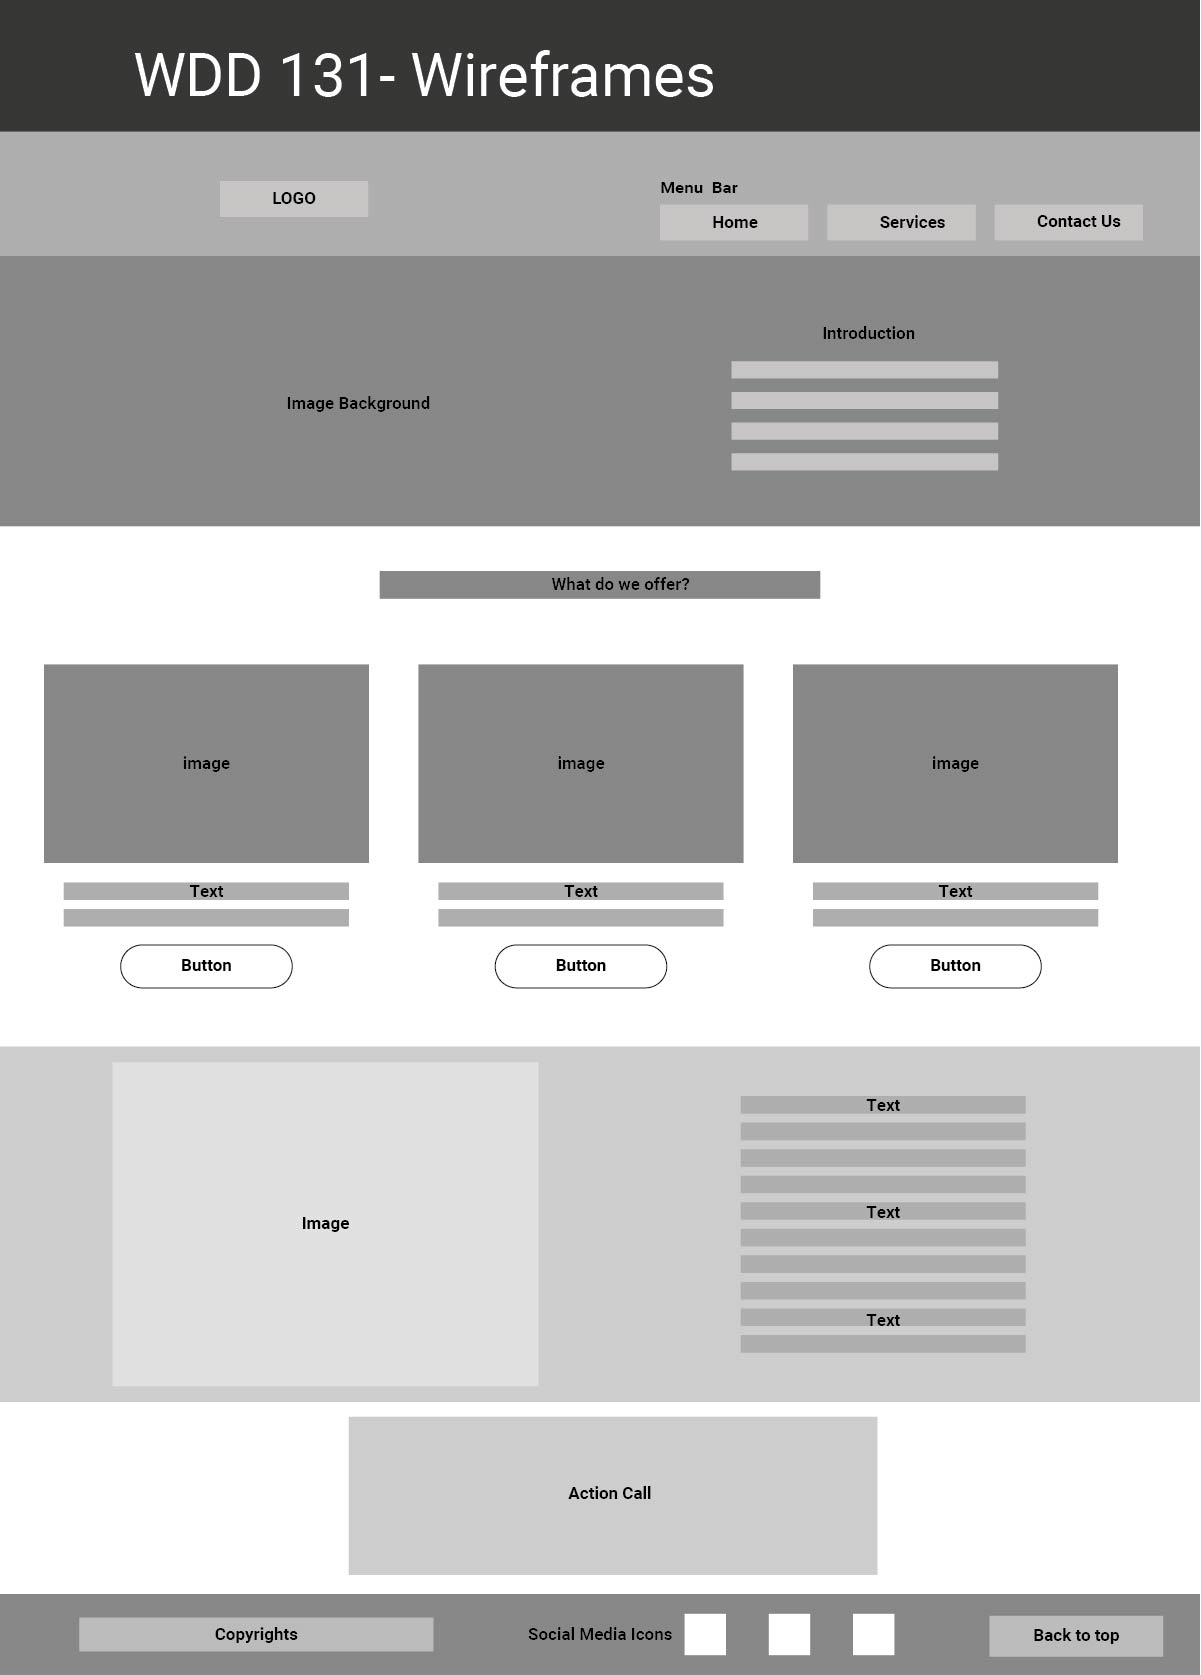
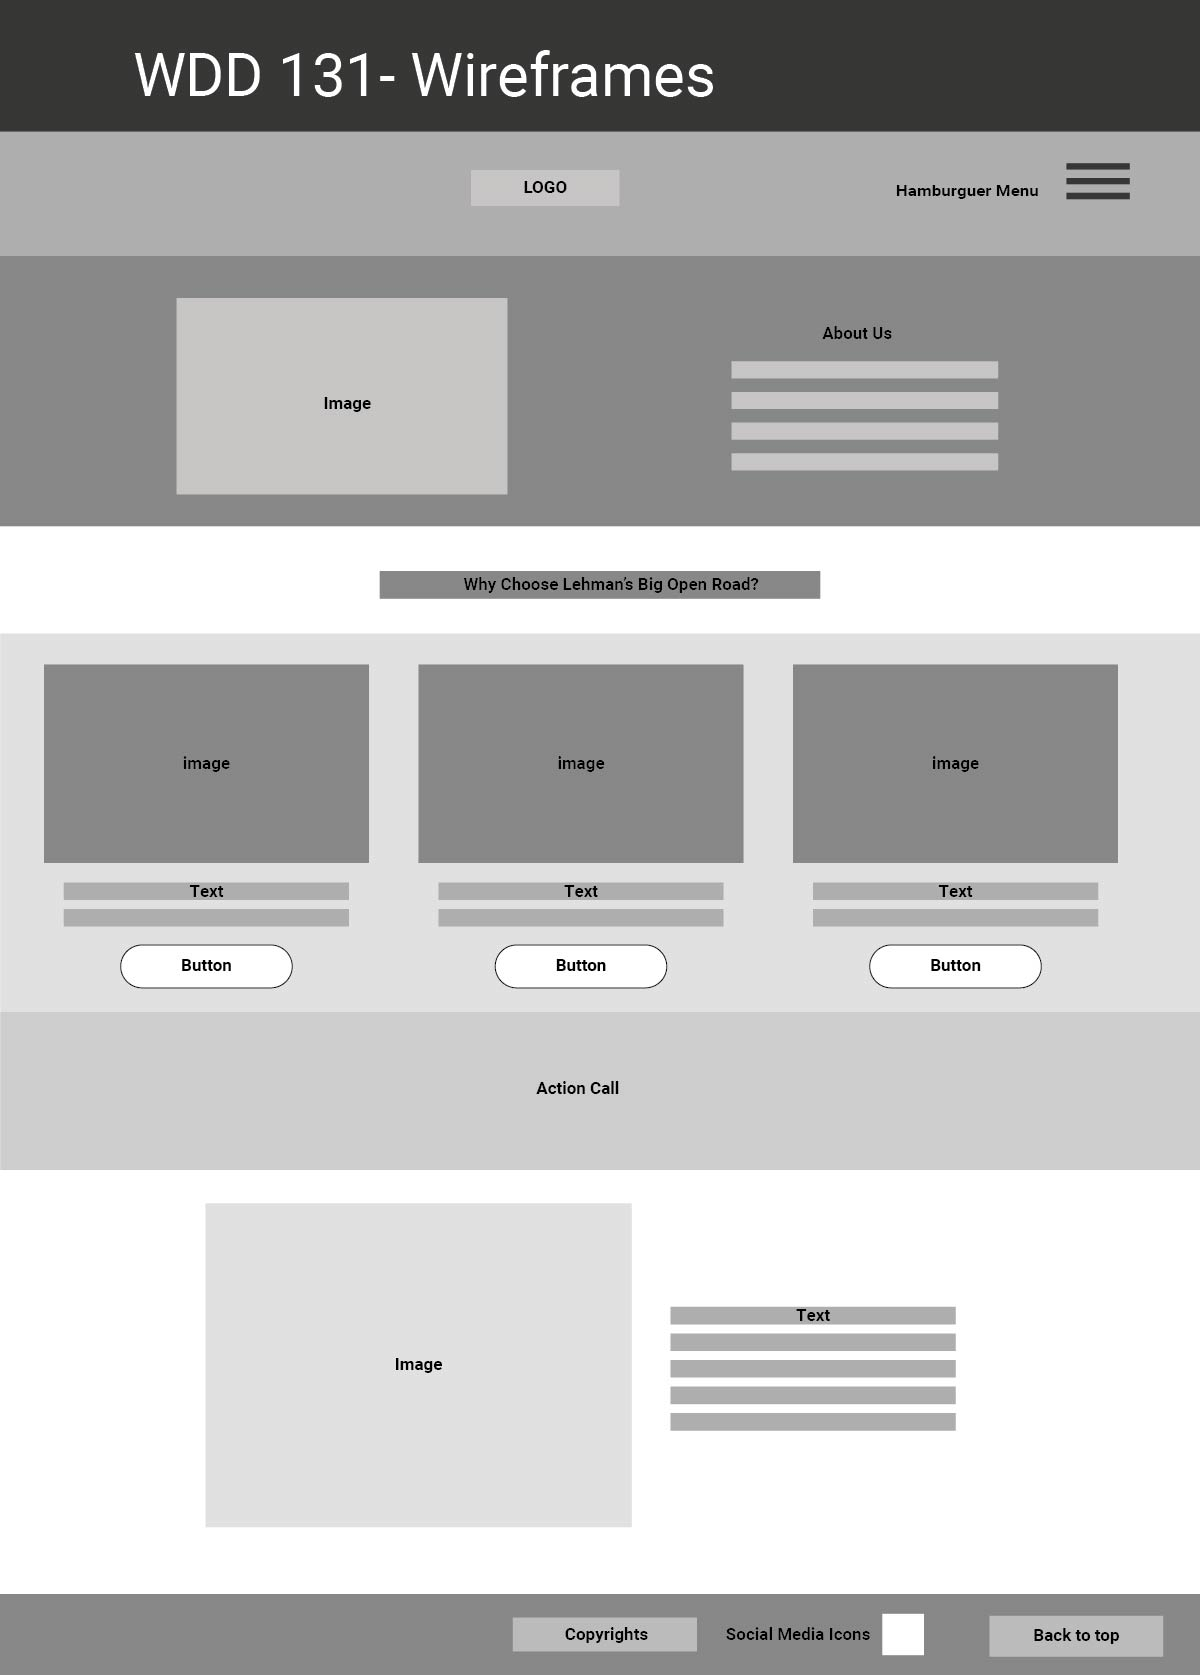
site plan

diff --git a/siteplan/site-plan.html b/siteplan/site-plan.html
@@ -129,6 +129,7 @@
 			<h2>Content</h2>
 			<h3>Home page</h3>
 			<h4>About Us</h4>
+			<img src="motorcycle-safety-helmet (1).jpg" alt="Logo image" /><br>
 			<p>
 				Lehman's Big Open Road, located in Dover, OH is a motorcycle shop poised 
 				to become the premier destination for motorcycle enthusiasts in the region. 
@@ -140,13 +141,24 @@
 				hub for riders to not only purchase and service their bikes but to also engage with 
 				fellow enthusiasts. Our location in Dover is strategic, allowing us to tap into a vibrant 
 				local market of motorcycle lovers and those seeking an alternative mode of transportation.
+				<p><strong>Why Choose Lehman’s Big Open Road?</strong></p>
+				<p>We are committed to providing top-quality service and products for all motorcycle enthusiasts.
+				With over 30 years of experience, we ensure reliability, expertise, and customer satisfaction.</p>
 
-				<img src="motorcycle-safety-helmet (1).jpg" alt="Logo image" /><br>
-				<img src="motorcycle-5873940_1280.jpg" alt="Logo image" /><br>
-				<img src="locomotive-2314904_1280.jpg" alt="Logo image" /><br>
+
+				<p> Action call </p>
+				<img src="action.jpg" alt="Logo image" /><br>
+				<p>Below I will have an image with text</p>
+				<img src="buyer.jpg" alt="Logo image" /><br>
+				<p><strong>Find Your Dream Motorcycle</strong></p>
+				<p>Buying a motorcycle is always a big deal. Having pre-owned motorcycles, sometimes it is hard to fully trust
+				 because it can be hard to know the condition of the motorcycle. That is why we have our Pre-Owned Promise. 
+				 We make sure to review each Pre- Owned motorcycle to make sure what you buy is ready to go. It is a big advantage
+				 of buying from us versus purchasing from a private party – we give you a guarantee!</p>
+				
 
 			</p>
-			<h3>Services</h3>
+			<h2>Services</h2>
 			<p>This is the information and description for this section:
 			</p>
 			<p><strong>We are here to serve you!</strong></p>
@@ -161,10 +173,10 @@
 			      <img src="workshop-3758513_1280.jpg" alt="Logo image" /><br>
 				  <p>Our workshop area
 					High-quality motorcycle maintenance to keep you on the road. Safety first.</p>
-				   <img src="apparel1.jpg" alt="Logo image" /><br>
+				   <img src="rider-6796556_1280.jpg" alt="Logo image" /><br>
 				   <p>Service Appointment
 					We make sure your work is done on time!</p>
-				   <img src="bikes.jpg" alt="Logo image" /><br>
+				   <img src="store1.jpg" alt="Logo image" /><br>
 				   <p>Motorcycle gear and Accesories
 					Wide selection of top-brand motorcycle gear and accessories.
 					</p>
@@ -185,10 +197,18 @@
 							- Kylie Grau
 						</li>
 			</lo>
-				  <h3>Contact Us</h3>
-			<p>I will provide some links and important information. Easy access for social media.
-				116 S. Crater Avenue, Dover, OH, United States, Ohio
-			</p>
+				  <h2>Contact Us</h2>
+			<p>I will provide some links and important information. Easy access for social media.</p>
+			<p><strong>We are here to serve you!</strong></p>
+			<p>We provide flexible business hours. Contact us and schedule an appointment, we will be happy to take care of your motorcycle. 
+				We are open Monday to Saturday. If you have any question or concern give us a call or leave a message 
+				that we will get back to you as soon as we can.</p>
+				<img src="phone-4974179_1280.jpg" alt="home page wireframe" />
+				<p> Leave us a message (form)</p>
+				<p> Here will be display a form with some categories like: Name, phone number, email, message. </p>
+				<p> Below the form I will have a map with the Address: 116 S. Crater Avenue, Dover, OH, United States 44622 </p>
+
+
 			<h2>Wireframes</h2>
 			<p>
 				Create two wireframes for your site. One for each page and list them
@@ -197,15 +217,25 @@
 
 			<h3>Home</h3>
 			<p>
-				I will have some of the main areas to easy access displayed through images and small text information
+				The home page will have an overview about the business itself and the main services it provides. The hamburguer bar
+				will display the child pages so it is easy to navigate. It will also have a button to come back to the top.
+				The home page will be clean and easy to understand.
 			</p>
-			<img src="wireframe1.jpg" alt="home page wireframe" />
+			<img class="wireframe" src="wireframe1.jpg" alt="home page wireframe" />
 
 			<h3>Services</h3>
 			<p>
-				I will provide a brief overview of this page so it is easy to understand
+				This page will include the different type of services the business provide. It will also have enough and clear information so it 
+				is easy to navigate and find what you need. At the bottom of the page I will include reviews from customers in an interactive slide.
 			</p>
-			<img src="wireframe 2.jpg" alt="page 2 wireframe" />
+			<img  class="wireframe" src="wireframe-services.jpg" alt="page 2 wireframe" />
+
+			<h3>Contact Us</h3>
+			<p>
+				This page will provide easy contact information like phone number, email, address. It will also have a form where customers can 
+				send a message filling out their basic information. at the bottom there will be a map with the address for easy access.
+			</p>
+			<img  class="wireframe" src="wireframe- contact us.jpg" alt="page 2 wireframe" />
 		</main>
 	</body>
 </html>

diff --git a/siteplan/site-plan.css b/siteplan/site-plan.css
@@ -38,12 +38,21 @@ body {
   padding: 4em;
   font-size: 18px;
 }
+
 img {
   display: block;
   margin: 0 auto;
-  width: 230px;
-  height: 230px;
+  max-width: 500px;  
+  max-height: 300px;
+  width: auto;       
+  height: auto;    
 }
+img.wireframe {
+  max-width: 800px;
+  max-height: 600px;
+}
+
+
 h1,
 h2,
 h3,
